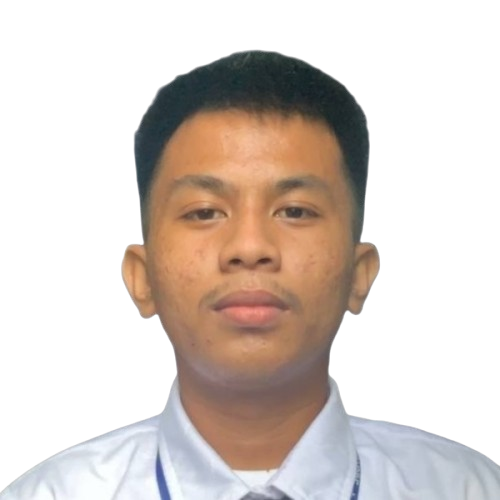
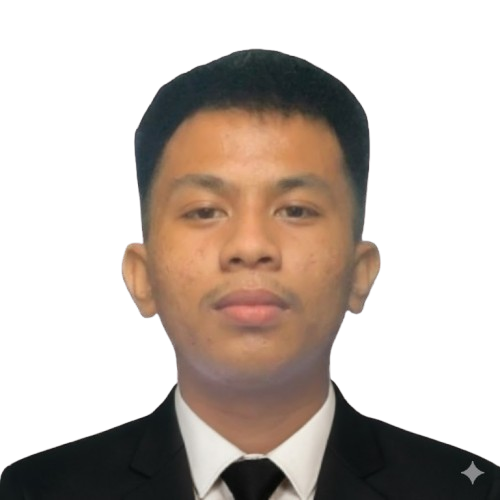
addimage and fixnavbar

diff --git a/Developer/developer.html b/Developer/developer.html
@@ -54,7 +54,7 @@
         </div>
       </div>
 
-      <div class="box"><img src="../image/leander.png" alt="Image 4">
+      <div class="box"><img src="../image/Leander.png" alt="Image 4">
         <p class="name">Leander Lance A. Jatulan</p>
         <div class="social-icons">
       <a href="https://facebook.com" target="_blank"><img src="/image/fb.png" alt="Facebook"></a>
@@ -63,7 +63,7 @@
         </div>
       </div>
 
-      <div class="box"><img src="image5.jpg" alt="Image 5">
+      <div class="box"><img src="../image/dih.png" alt="Image 5">
         <p class="name">Rob Kjelle Gabrielle L. Mabilangan</p>
         <div class="social-icons">
       <a href="https://facebook.com" target="_blank"><img src="/image/fb.png" alt="Facebook"></a>
@@ -72,7 +72,7 @@
         </div>
       </div>
 
-      <div class="box"><img src="image6.jpg" alt="Image 6">
+      <div class="box"><img src="../image/drew.jpg" alt="Image 6">
         <p class="name">Sean Andrew M. Fuertes</p>
         <div class="social-icons">
       <a href="https://facebook.com" target="_blank"><img src="/image/fb.png" alt="Facebook"></a>
@@ -81,7 +81,7 @@
         </div>
       </div>
 
-      <div class="box"><img src="image7.jpg" alt="Image 7">
+      <div class="box"><img src="../image/mark.png" alt="Image 7">
         <p class="name">Mark Luis O. Fulinara</p>
         <div class="social-icons">
       <a href="https://facebook.com" target="_blank"><img src="/image/fb.png" alt="Facebook"></a>
@@ -90,7 +90,7 @@
         </div>
       </div>
 
-      <div class="box"><img src="image8.jpg" alt="Image 8">
+      <div class="box"><img src="../image/image-removebg-preview.png" alt="Image 8">
         <p class="name">John Ivan A. Gonzales</p>
         <div class="social-icons">
       <a href="https://facebook.com" target="_blank"><img src="/image/fb.png" alt="Facebook"></a>
@@ -108,7 +108,7 @@
         </div>
       </div>
 
-      <div class="box"><img src="../image/Miro Gonzales.png" alt="Image 10">
+      <div class="box"><img src="../image/Miro.png" alt="Image 10">
         <p class="name">Miro Gonzales</p>
         <div class="social-icons">
       <a href="https://facebook.com" target="_blank"><img src="/image/fb.png" alt="Facebook"></a>

diff --git a/Developer/developer.css b/Developer/developer.css
@@ -50,7 +50,7 @@ html, body {
   width: 100%;
   height: 200px;
   object-fit: cover;
-  border-radius: 8px;
+  border-radius: 5px;
 }
 
 .box img[src*="placeholder.png"] {
@@ -87,13 +87,13 @@ html, body {
 }
 /* === Navbar === */
 .navbar {
-  position: fixed;
+  position: absolute;
   top: 20px;
   left: 50%;
   transform: translateX(-50%);
   z-index: 100;
   width: 90%;
-  max-width: 800px;
+  max-width: 700px;
 }
 
 .navbar-content {
